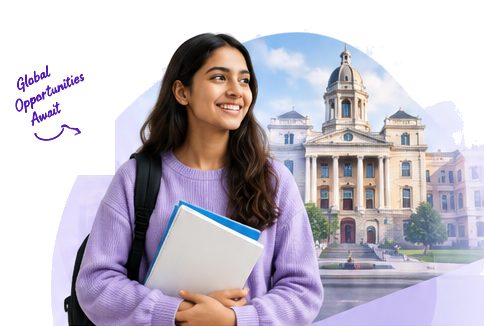
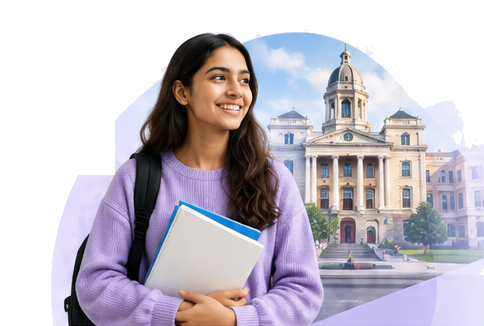
feat(universities): remove global opportunities await text and arrow from hero illustration

Changed region(s): [[0.031, 0.2147, 0.186, 0.4294], [0.155, 0.3988, 0.186, 0.4294], [0.124, 0.3681, 0.155, 0.3988]]

diff --git a/client/src/pages/Platform.jsx b/client/src/pages/Platform.jsx
@@ -526,7 +526,7 @@ const Platform = () => {
                                 <div className="relative w-full max-w-[320px] sm:max-w-[370px] lg:max-w-[430px] flex items-end justify-center lg:justify-end leading-none">
                                     <img
                                         src="/university_hero_reference_illustration.png"
-                                        alt="SkillDad Universities - Global Opportunities Await"
+                                        alt="SkillDad Universities - Explore Top Global Universities"
                                         className="w-full h-auto block object-contain pointer-events-none drop-shadow-sm dark:drop-shadow-[0_4px_24px_rgba(192,38,255,0.18)] align-bottom"
                                     />
                                 </div>
